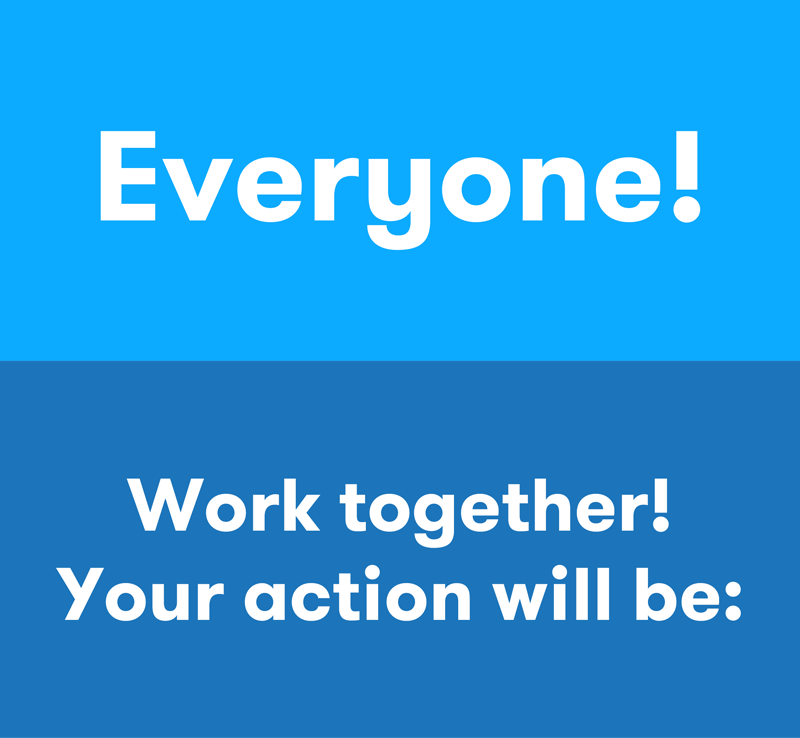
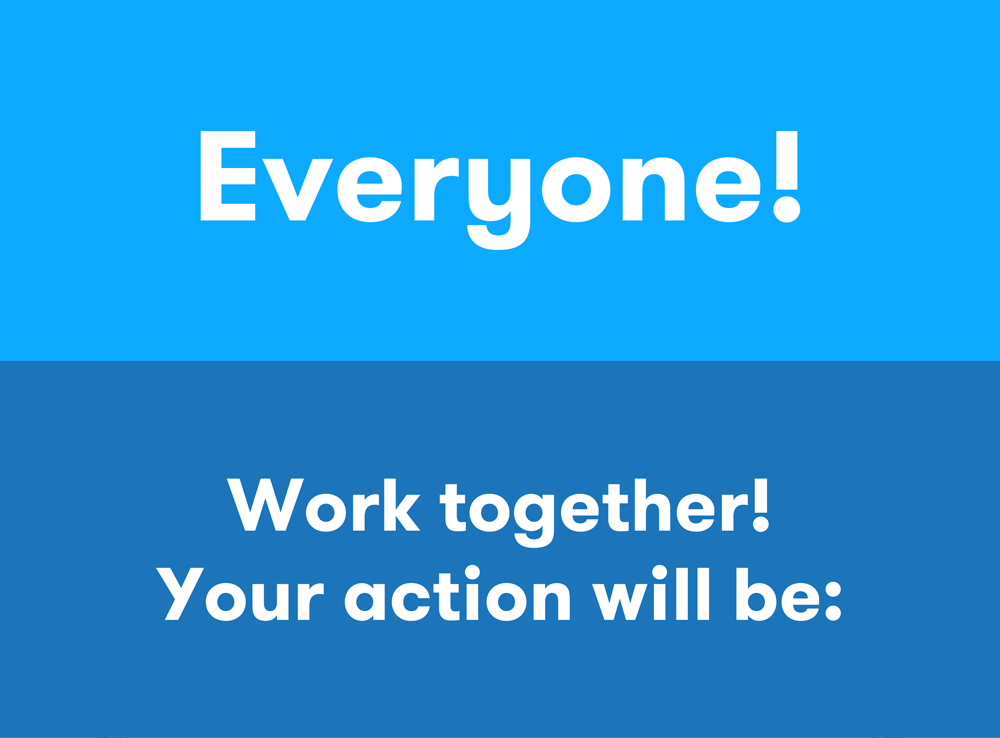
client prompt styling

Changed region(s): [[0.125, 0.1558, 0.875, 0.3428], [0.0625, 0.748, 0.9375, 0.8415], [0.1562, 0.6233, 0.8438, 0.748]]

diff --git a/views/js/game-client.js b/views/js/game-client.js
@@ -32,6 +32,30 @@
 //////////////////////////
 // End Fake User Data
 /////////////////////////
+function resizeTextBox(){
+      console.log('window loaded');
+      var newHeight = $(window).height();
+      console.log(newHeight)
+      newHeight = newHeight - 50 ;
+      console.log(newHeight + 'nav');
+
+      newHeight = newHeight - $('.page .container .imageContainer img').height() ;
+    //  console.log(newHeight + 'image');
+      // Intro Slide show & Signup
+      newHeight = newHeight - 15 ;
+
+      $('.bottomHalf').css('height', newHeight+'px' );
+
+}
+
+$(window).load(function(){
+ resizeTextBox();
+});
+
+$(window).resize(function(event) {
+ resizeTextBox();
+});
+
 
 //prevent uses phone from sleeping.
 // var noSleep = new NoSleep();
@@ -80,7 +104,6 @@ socket.on('reload', function() {
 
 socket.on('connect', function() {
   //  console.log(socket);
-    $('.page').removeClass('my-turn');
 
     console.log('connected to the server as: ' + socket.id);
     socket.emit('updateUser', currentUserInfo())
@@ -106,16 +129,16 @@ socket.on('connect', function() {
 
 
     //resetViews
-    //$('.page').css('background-image','url(assets/images/client/everyone.png)') //********************************************************
-    $('.bottomHalf').html( 'Baby humpback whales whisper to their mothers to stay safe from listening predators, but human noise pollution makes it hard for the mothers to hear them. Choose to be a baby whale, a mother whale, or a predator swimming about. Can you hear eachother?')
+    $('.page').removeClass('my-turn');
+    $('.prompt').html('')
 
 });
 
 socket.on('reconnect', function() {
     socket.emit('updateUser', currentUserInfo())
-
+    $('.page').removeClass('my-turn');
     $('.page').css('background-image','url(assets/images/client/newGame.png)')
-    $('.bottomHalf').html( '')
+    $('.prompt').html('')
 
 })
 
@@ -125,10 +148,9 @@ socket.on('newGame', function() {
     // $('.waitingNext').html('')
     console.log('~~~~~~NEWGAME!');
     window.parent.document.title = GAME_LOCATION + '🚫' + socket.id
-    // $('.page').css('background-color','red')
+    $('.page').removeClass('my-turn');
     $('.page').css('background-image','url(assets/images/client/newGame.png)')
-    $('.bottomHalf').html( '')
-
+    $('.prompt').html('')
 })
 
 socket.on('myTurn', function(taskToPlay) {
@@ -155,53 +177,50 @@ socket.on('myTurn', function(taskToPlay) {
     // $('.page').css('background-color','green')
 
     if(taskToPlay.players == 'all'){
-      $('.page .container img').attr('src','assets/images/client/everyone.png')
+      $('.page.queue .container img').attr('src','assets/images/client/everyone-small.png')
     }else{
-      $('.page .container img').attr('src','assets/images/client/myTurn.png')
+      $('.page.queue .container img').attr('src','assets/images/client/myTurn-small.png')
     }
 
-    $('.bottomHalf').html( taskToPlay.task )
+    $('.prompt').html( taskToPlay.task )
+    $('.bottomHalf').textfill({maxFontPixels:24});
 
     // trigger sound notification
     //  $('.myTurnAudio').get(0).play()
 });
 
-function tempMyTurn(){
-
-  updateWaitTime('reset');
-  $('.page').addClass('my-turn');
-  //Add Points to the client side user object.
- //r getUser = store.get('user');
- //  // console.log('getUser1', getUser);
- //  getUser.score++
-
- //  //for tracking over the night
- //  getUser.tracking = {
- //    location: GAME_LOCATION,
- //    time: Date.now(),
- //    // lat:,
- //    // lon:
- //  }
- //  // console.log('getUser2', getUser);
- //  socket.emit('scorePoints', getUser)
- //store.set('user', getUser)
- var taskToPlay = {};
-taskToPlay.players = 'all';
-  // $('.waitingNext').html( taskToPlay )
-  window.parent.document.title = GAME_LOCATION + '✅' + socket.id
-  // $('.page').css('background-color','green')
-
-  if(taskToPlay.players == 'all'){
-    $('.page.queue .container img').attr('src','assets/images/client/everyone-small.png')
-  }else{
-    $('.page.queue .container img').attr('src','assets/images/client/myTurn.png')
-  }
-
-  $('.bottomHalf').html( taskToPlay.task )
-
-  // trigger sound notification
-  //  $('.myTurnAudio').get(0).play()
-}
+// function tempMyTurn(){
+//
+//   updateWaitTime('reset');
+//   $('.page').addClass('my-turn');
+//
+//  var taskToPlay = {};
+// taskToPlay.players = 'all';
+//   // $('.waitingNext').html( taskToPlay )
+//   window.parent.document.title = GAME_LOCATION + '✅' + socket.id
+//   // $('.page').css('background-color','green')
+//
+//   if(taskToPlay.players == 'all'){
+//     $('.page.queue .container img').attr('src','assets/images/client/everyone-small.png')
+//   }else{
+//     $('.page.queue .container img').attr('src','assets/images/client/myTurn.png')
+//   }
+//
+//   // $('.bottomHalf span').html( taskToPlay.task )
+//   // $('.prompt').html( 'Baby humpback whales whisper to their mothers to stay safe from listening predators, but human noise pollution makes it hard for the mothers to hear them. Choose to be a baby whale, a mother whale, or a predator swimming about. Can you hear eachother?')
+//   $('.prompt').html( 'You are tadpoles hatching from eggs. Swim fast to the shore, then grow legs and hop onto the land!')
+//
+//   $('.bottomHalf').textfill({maxFontPixels:24});
+//
+//   // trigger sound notification
+//   //  $('.myTurnAudio').get(0).play()
+//
+//
+// }
+//
+// setTimeout(function(){
+//   tempMyTurn();
+// },1000)
 
 socket.on('disconnect', function() {
     console.log('disconnected from the server as: ' + socket.id);

diff --git a/views/assets/javascript/jquery.textfill.min.js b/views/assets/javascript/jquery.textfill.min.js
@@ -1,0 +1,20 @@
+/*
+  textfill
+ @name      jquery.textfill.js
+ @author    Russ Painter
+ @author    Yu-Jie Lin
+ @author    Alexandre Dantas
+ @version   0.6.0
+ @date      2014-08-19
+ @copyright (c) 2014 Alexandre Dantas
+ @copyright (c) 2012-2013 Yu-Jie Lin
+ @copyright (c) 2009 Russ Painter
+ @license   MIT License
+ @homepage  https://github.com/jquery-textfill/jquery-textfill
+ @example   http://jquery-textfill.github.io/jquery-textfill/index.html
+*/
+(function(m){m.fn.textfill=function(r){function f(){a.debug&&"undefined"!=typeof console&&"undefined"!=typeof console.debug&&console.debug.apply(console,arguments)}function s(){"undefined"!=typeof console&&"undefined"!=typeof console.warn&&console.warn.apply(console,arguments)}function p(a,b,e,k,n,g){function d(a,b){var c=" / ";a>b?c=" > ":a==b&&(c=" = ");return c}f("[TextFill] "+a+" { font-size: "+b.css("font-size")+",Height: "+b.height()+"px "+d(b.height(),e)+e+"px,Width: "+b.width()+d(b.width(),
+k)+k+",minFontPixels: "+n+"px, maxFontPixels: "+g+"px }")}function q(a,b,e,k,f,g,d,h){for(p(a,b,f,g,d,h);d<h-1;){var l=Math.floor((d+h)/2);b.css("font-size",l);if(e.call(b)<=k){if(d=l,e.call(b)==k)break}else h=l;p(a,b,f,g,d,h)}b.css("font-size",h);e.call(b)<=k&&(d=h,p(a+"* ",b,f,g,d,h));return d}var a=m.extend({debug:!1,maxFontPixels:40,minFontPixels:4,innerTag:"span",widthOnly:!1,success:null,callback:null,fail:null,complete:null,explicitWidth:null,explicitHeight:null,changeLineHeight:!1},r);f("[TextFill] Start Debug");
+this.each(function(){var c=m(a.innerTag+":visible:first",this),b=a.explicitHeight||m(this).height(),e=a.explicitWidth||m(this).width(),k=c.css("font-size"),n=parseFloat(c.css("line-height"))/parseFloat(k);f("[TextFill] Inner text: "+c.text());f("[TextFill] All options: ",a);f("[TextFill] Maximum sizes: { Height: "+b+"px, Width: "+e+"px }");var g=a.minFontPixels,d=0>=a.maxFontPixels?b:a.maxFontPixels,h=void 0;a.widthOnly||(h=q("Height",c,m.fn.height,b,b,e,g,d));var l=void 0,l=q("Width",c,m.fn.width,
+e,b,e,g,d);a.widthOnly?(c.css({"font-size":l,"white-space":"nowrap"}),a.changeLineHeight&&c.parent().css("line-height",n*l+"px")):(g=Math.min(h,l),c.css("font-size",g),a.changeLineHeight&&c.parent().css("line-height",n*g+"px"));f("[TextFill] Finished { Old font-size: "+k+", New font-size: "+c.css("font-size")+" }");c.width()>e||c.height()>b&&!a.widthOnly?(c.css("font-size",k),a.fail&&a.fail(this),f("[TextFill] Failure { Current Width: "+c.width()+", Maximum Width: "+e+", Current Height: "+c.height()+
+", Maximum Height: "+b+" }")):a.success?a.success(this):a.callback&&(s("callback is deprecated, use success, instead"),a.callback(this))});a.complete&&a.complete(this);f("[TextFill] End Debug");return this}})(window.jQuery);

diff --git a/views/js/index.js b/views/js/index.js
@@ -260,7 +260,7 @@ var allCircles = [];
 // This could be a json that gets loaded in but I'm not sure if its needed anywhere else besides on the phone...
 var allLocations = [
   {
-    url:"benshouse",
+    url:"westbank",
     name: "Ben's House",
     lat: 44.957124,
     lon: -93.283987,
@@ -549,7 +549,7 @@ function handleLocationError(err, locationWindow, pos) {
 
 if (navigator.geolocation) {
 
-   
+
 
       navigator.geolocation.watchPosition(function(position) {
         // Set as global variable for other functions to use
@@ -678,7 +678,7 @@ $(window).load(function(){
       //checkAndSetCookieForVisitedArtwork();
 
       // Fade out Loading Screen with a delay of 4 seconds
-      
+
 
 
 
@@ -747,7 +747,7 @@ $(window).load(function(){
           gaTrack(e);
      });
 
-        
+
 
      // Close Panels
      $('body').on('touchstart', '.close', function(e){
